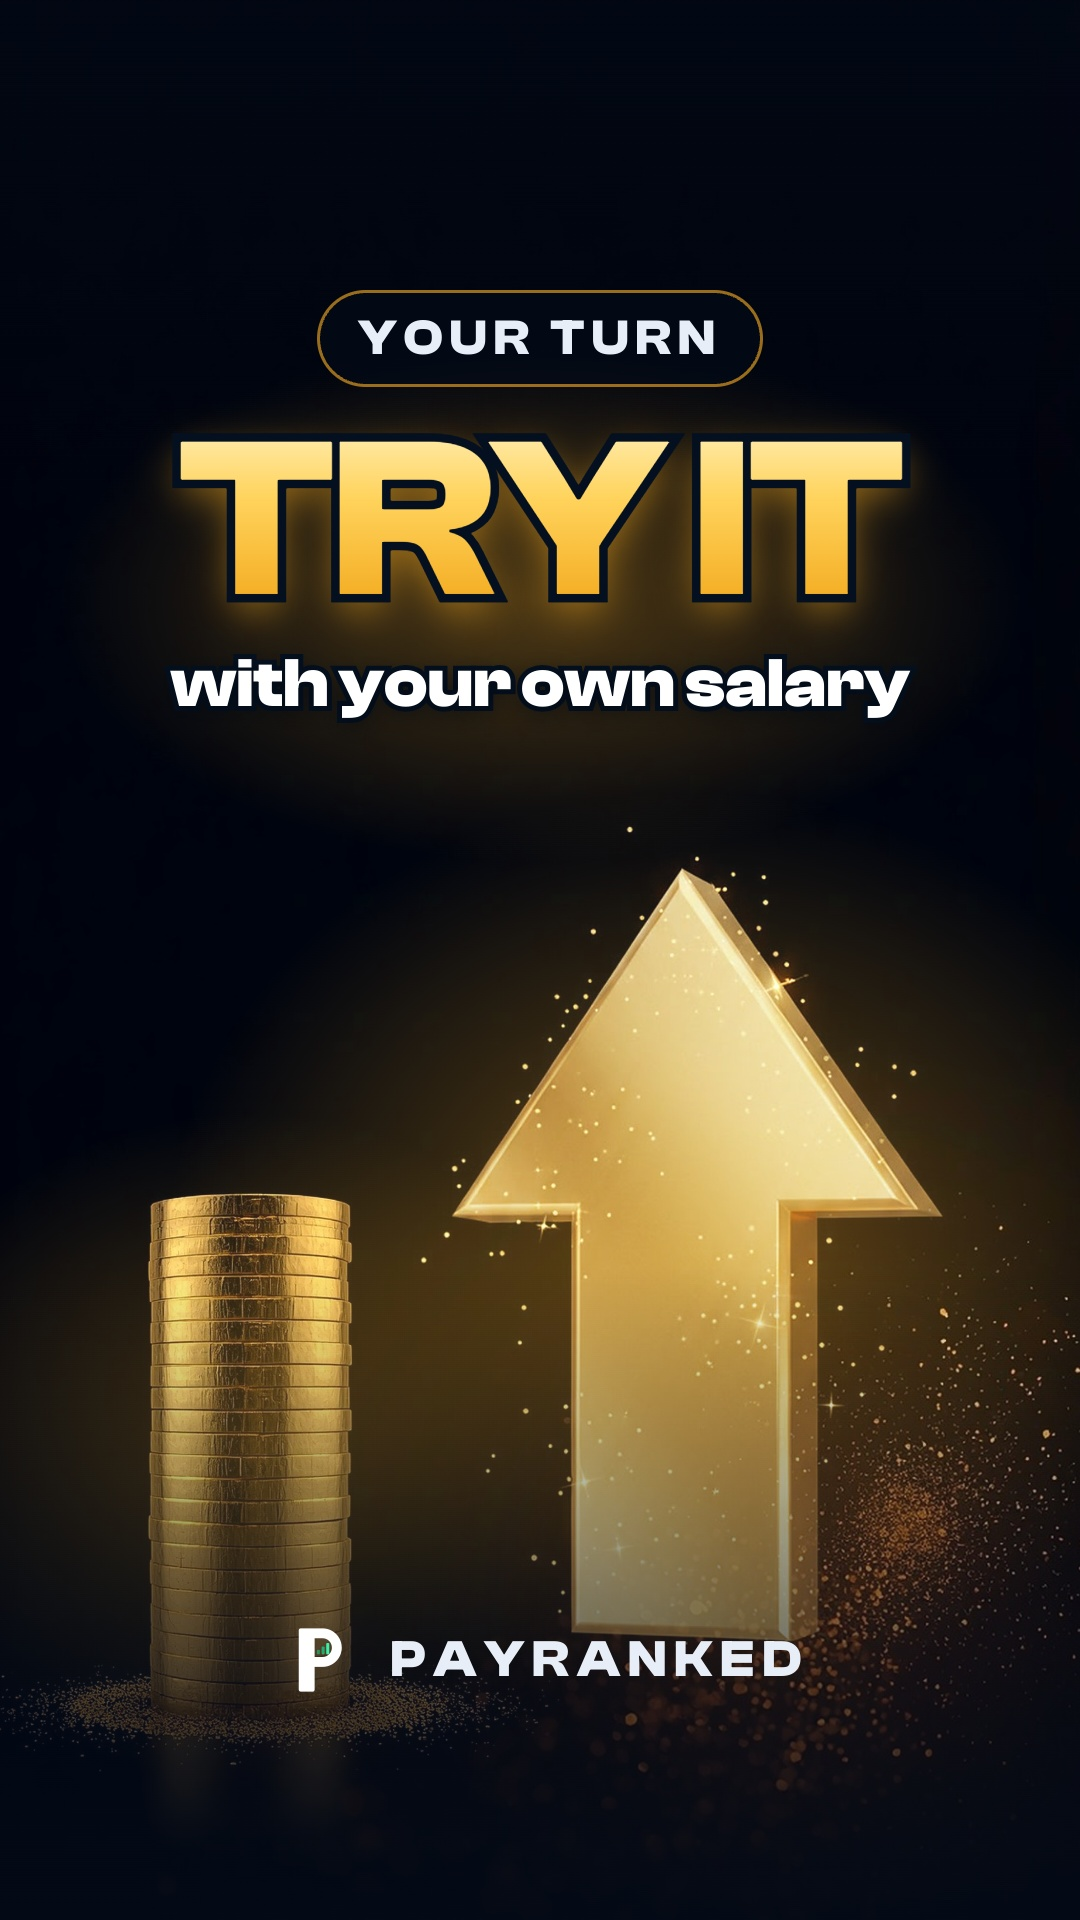
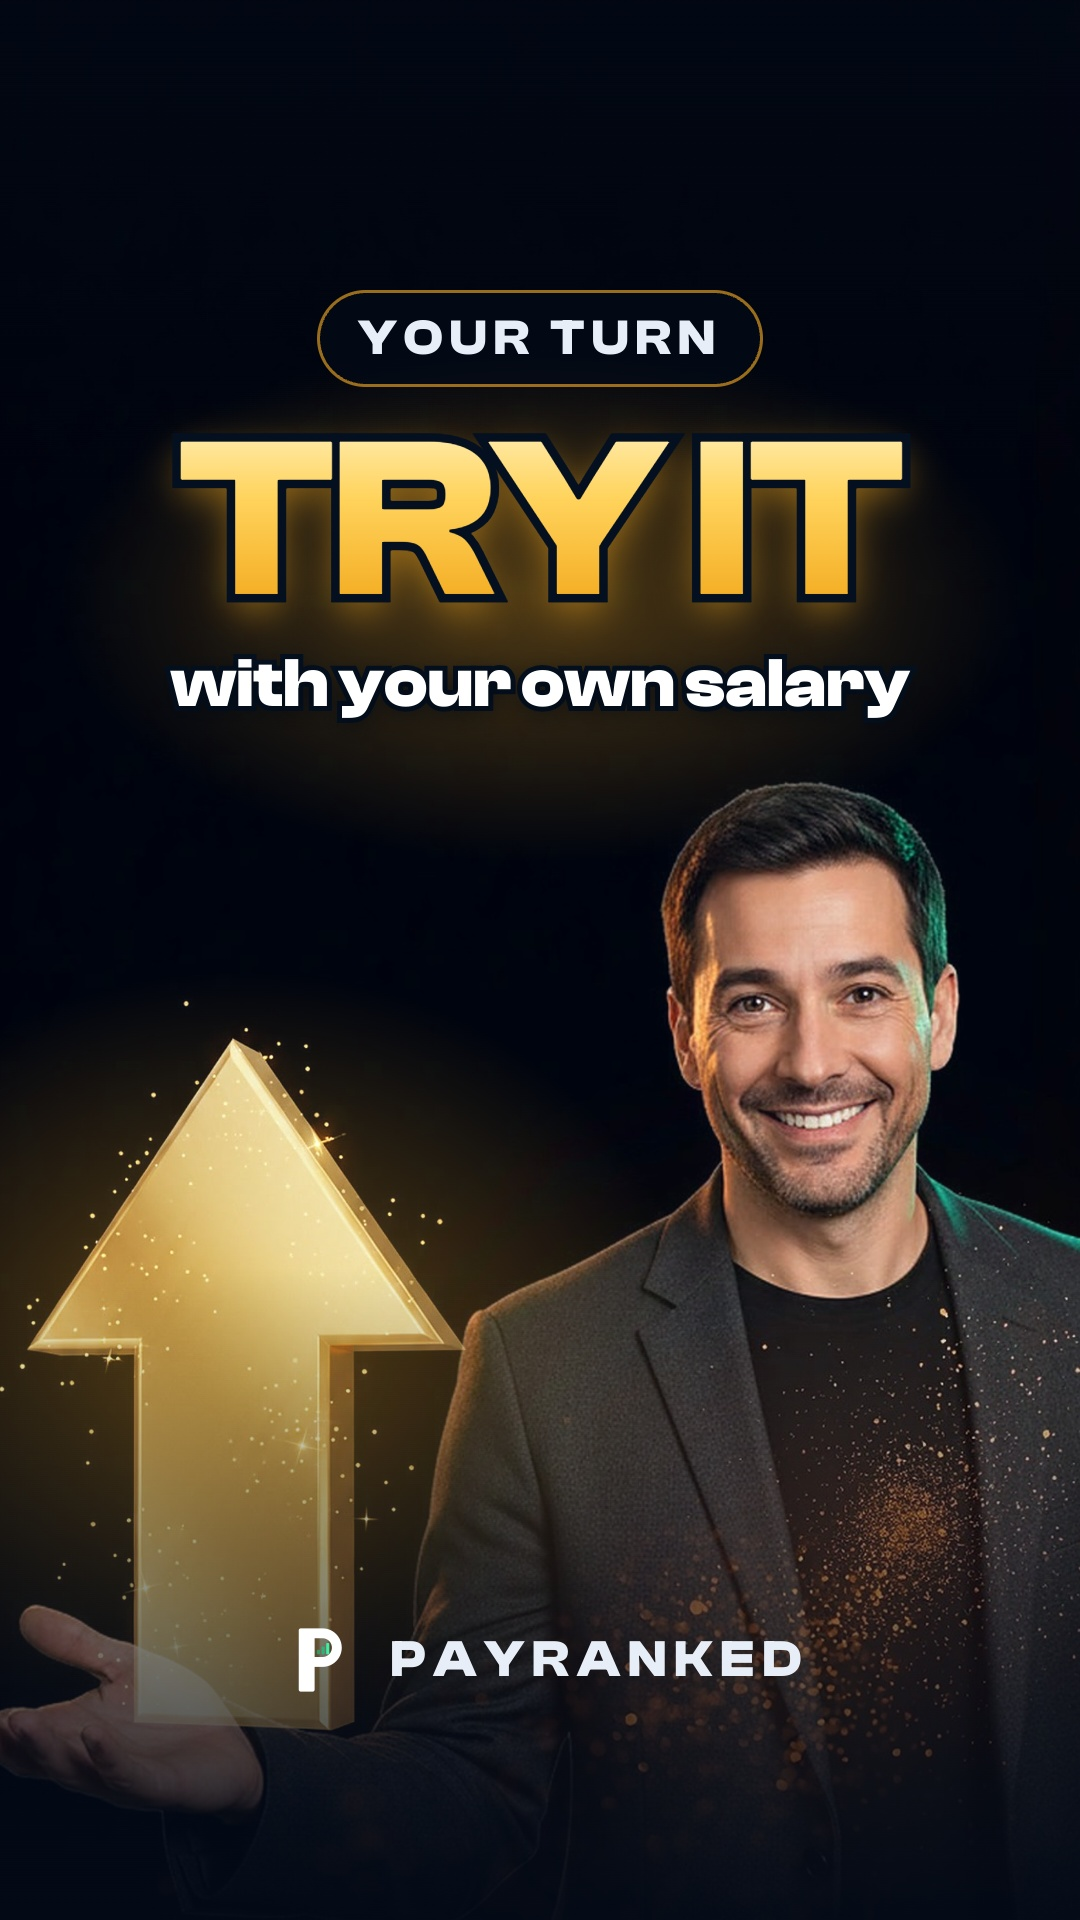
feat(thumbnails): Short 7 gets the inviting man (open hand toward the arrow); re-export

Changed region(s): [[0.0, 0.4062, 1.0, 0.9375]]

diff --git a/src/thumbnails/specs.ts b/src/thumbnails/specs.ts
@@ -27,6 +27,7 @@ const HEAD_TOP: Record<string, number> = {
   'man-warning': 0.33,
   'man-intense': 0.24,
   'man-skeptical': 0.31,
+  'man-inviting': 0.30,
 };
 /** Place a man so the top of his head is at headY (px) whatever his picture's headroom is, so every thumbnail has the face at the same height. */
 const man = (file: string, cx: number, w: number, headY = 900): Layer => ({file, cx, w, cy: headY - HEAD_TOP[file] * w * 1.75 + (w * 1.75) / 2});
@@ -123,7 +124,7 @@ export const THUMBS: ThumbSpec[] = [
     layers: [man('man-intense', 540, 1480, 820)],
   },
   {
-    // Hook: try this with your own salary. (No man yet: add man-inviting.jpg, then add it as a layer.)
+    // Hook: try this with your own salary. (The man's open hand points at the arrow.)
     id: 7,
     bg: 'bg-navy-gold',
     kicker: 'YOUR TURN',
@@ -132,8 +133,8 @@ export const THUMBS: ThumbSpec[] = [
     sub: 'with your own salary',
     accent: 'gold',
     layers: [
-      {file: 'obj-coins', cx: 250, cy: 1450, w: 700, glow: 'rgba(255,176,32,0.3)'},
-      {file: 'obj-arrow-up', cx: 690, cy: 1250, w: 950, glow: 'rgba(255,176,32,0.4)'},
+      {file: 'obj-arrow-up', cx: 240, cy: 1380, w: 850, glow: 'rgba(255,176,32,0.4)'},
+      man('man-inviting', 610, 1400, 790),
     ],
   },
 ];
